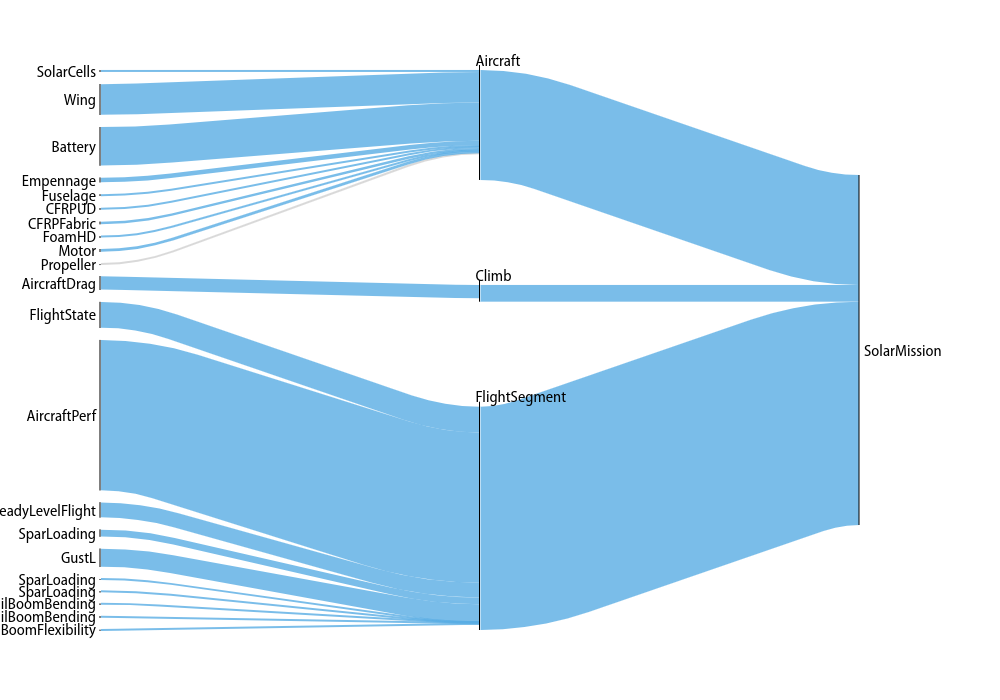
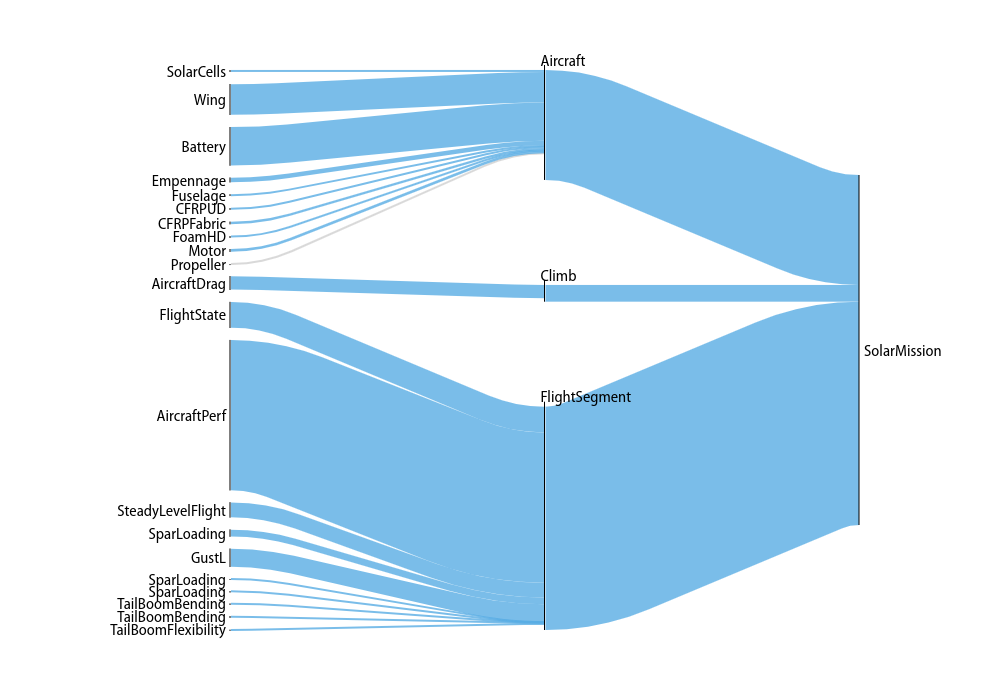
fixes

Changed region(s): [[0.0, 0.06, 0.837, 0.93], [0.775, 0.39, 0.806, 0.45], [0.713, 0.45, 0.775, 0.48]]

diff --git a/docs/source/examples/freeing_fixed_variables.py b/docs/source/examples/freeing_fixed_variables.py
@@ -4,7 +4,7 @@ x = Variable("x")
 y = Variable("y", 3)  # fix value to 3
 m = Model(x, [x >= 1 + y, y >= 1])
 # verbosity is 0 for testing's sake, no need to do that in your code!
-sol = m.solve()  # optimal cost is 4; y appears in sol["constants"]
+sol = m.solve(verbosity=0)  # optimal cost is 4; y appears in sol["constants"]
 
 assert abs(sol["cost"] - 4) <= 1e-4
 assert y in sol["constants"]

diff --git a/gpkit/interactive/sankey.py b/gpkit/interactive/sankey.py
@@ -5,7 +5,7 @@ from collections import defaultdict
 from collections.abc import Iterable
 import numpy as np
 from ipywidgets import Layout
-from ipysankeywidget import SankeyWidget  # pylint: disable=import-error
+from ipysankeywidget import SankeyWidget
 from ..repr_conventions import lineagestr, unitstr
 from .. import Model, GPCOLORS
 from ..constraints.array import ArrayConstraint

diff --git a/docs/source/visint.rst b/docs/source/visint.rst
@@ -120,12 +120,11 @@ without any tight constraints or sensitive fixed variables.
 
 .. code:: python
 
-    Sankey(sol, M, "SolarMission").diagram(maxlinks=30, showconstraints=False,
-                                           height=700, left=100)
+    Sankey(sol, M, "SolarMission").diagram(maxlinks=30, showconstraints=False, height=700)
 
 .. figure:: figures/sankey_autosaves/SolarMission.png
 
-Note that in addition to the ``left`` and ``showconstraints`` syntax introduced above,
+Note that in addition to the ``showconstraints`` syntax introduced above,
 this uses two additional arguments you may find useful when visualizing large models:
 ``height`` sets the height of the diagram in pixels (similarly for ``width``),
 while ``maxlinks`` increases the maximum number of links (default 20), making
